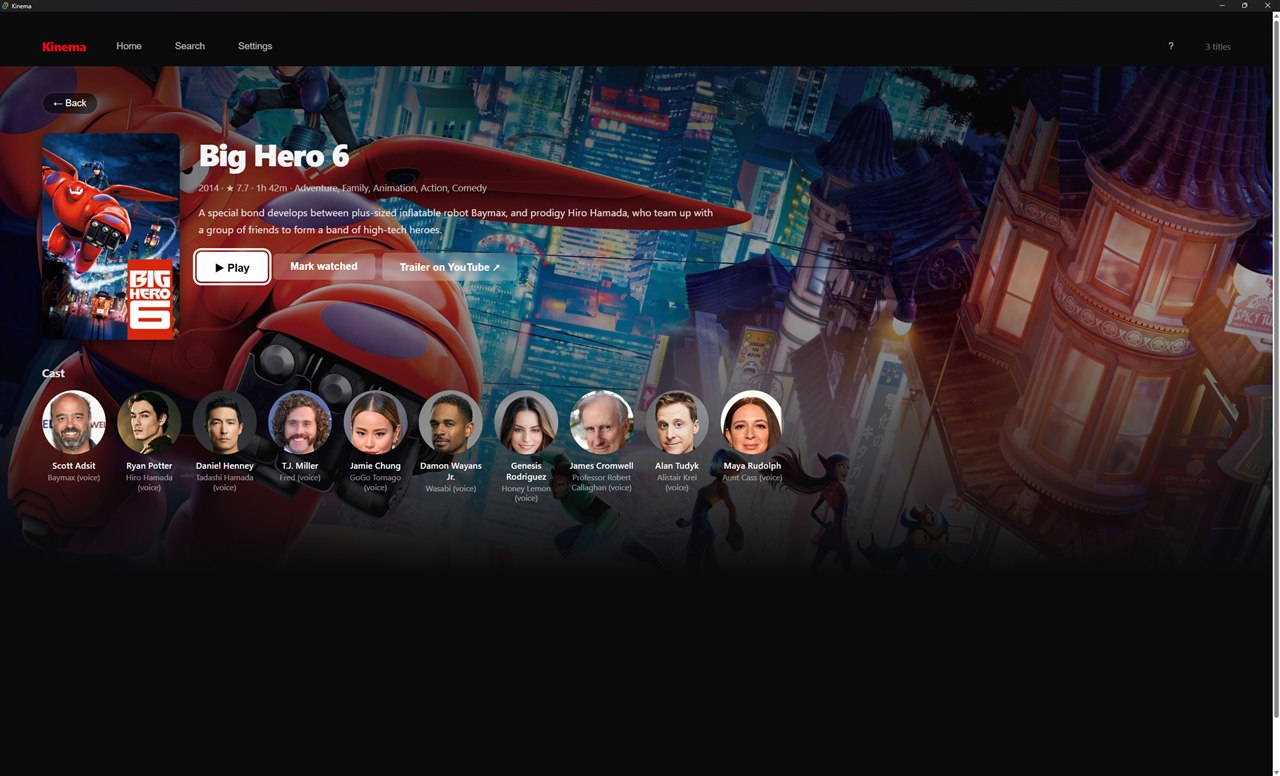
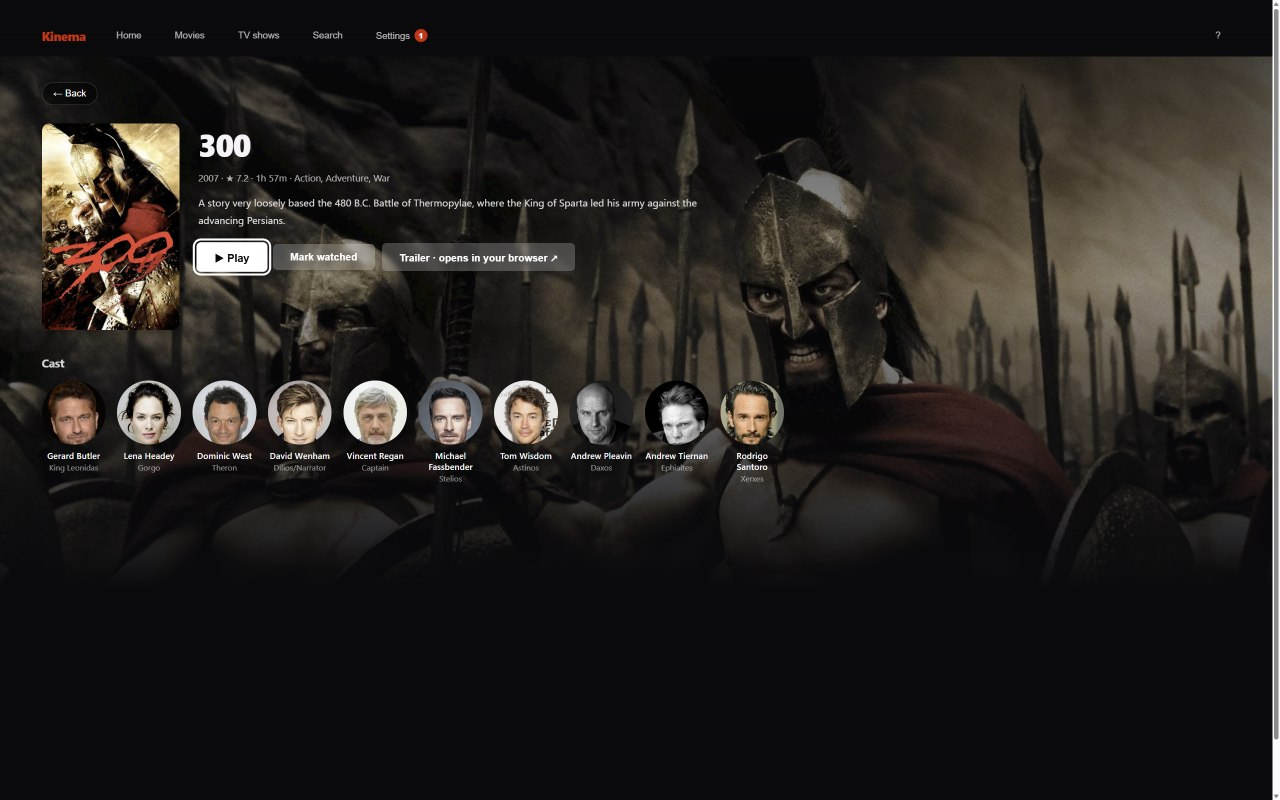
Ready the README for launch, with screenshots of the new app
The README taught the old remote ("press Up"), called the TMDB key optional
though movies do not appear without it, gave the SmartScreen box a
paragraph that read as defensive, and led with "not very tested". It now
describes the streaming-app remote, the language defaults and the equipment
notice; says plainly that movies need the key and what getting one involves;
explains the SmartScreen box step by step, with a checksum check that works
for any version; and ends with Known limitations. "Movies" throughout.

Home, the detail page and the player are fresh, taken by the self-test from
the real app on a copy of the library with its watch history deleted and the
equipment notice dismissed, so no viewing history or device names are shown.
selftest.ps1 gains -ShotDivisor for pictures larger than its timing quarters.
The changelog lists the whole pass under Unreleased.

diff --git a/README.md b/README.md
@@ -1,6 +1,6 @@
 # Kinema
 
-A media library for the films and TV shows already on your disk. It scans your
+A media library for the movies and TV shows already on your disk. It scans your
 folders, finds the artwork and descriptions, remembers where you stopped, and
 plays them — with no server, no account, and nothing running in the background.
 
@@ -11,34 +11,43 @@ Kinema is one program: close it and nothing is left running.
 
 **Windows 11 only.** See [Platform support](#platform-support).
 
-![Kinema's home screen: a full-width backdrop for the most recently added title, with rails of posters beneath it](docs/images/home.jpg)
+![Kinema's home screen: a full-width backdrop for a title from the library, with rails of posters beneath it](docs/images/home.jpg)
 
-![A film's detail page, showing the poster, description and a row of cast portraits](docs/images/detail.jpg)
+![A movie's detail page, showing the poster, description and a row of cast portraits](docs/images/detail.jpg)
 
 Detail pages carry the cast, the description and — for a series — every season
-and episode, with progress on the ones you have started.
+and episode, opening on the season you are in, with progress on the ones you
+have started. Posters everywhere show what you have watched.
 
-![The player's on-screen controls: seek bar, transport buttons, and an audio and subtitle panel](docs/images/player.png)
+![The player's controls: seek bar, the transport in the middle, audio and subtitles and volume at the right, and when it will end](docs/images/player.jpg)
 
-The controls appear on any key or mouse move and hide themselves again. **Press
-`↑`** to hand the arrow keys to them, which is how a remote reaches subtitles,
-audio tracks and fullscreen.
+A remote works the way it does on any streaming app: **OK** pauses, **←/→**
+seek (hold to go faster), and **↑/↓** bring up the controls — the seek bar,
+audio and subtitles, volume. Back steps back to wherever you came from.
 
 ## What it does
 
-- **Finds your films and shows** by walking folders you nominate. It never reads
+- **Finds your movies and shows** by walking folders you nominate. It never reads
   file contents to identify them, so scanning a NAS stays cheap.
 - **Fetches posters, backdrops, descriptions, cast and episode stills**, and
   caches them locally so browsing works with no connection.
 - **Refuses to guess.** A match it is not confident about goes to a review queue
-  with the reason, rather than silently attaching the wrong film to your file.
+  with the reason, rather than silently attaching the wrong movie to your file —
+  and Home tells you when something is waiting there.
 - **Plays through mpv** — the same engine as the standalone player — with
   hardware decoding, HDR tone mapping, PGS subtitles and 4K remuxes.
 - **Remembers where you were**, per file, and offers the next episode.
 - **Skips intros and credits**, from a community database, from chapter markers,
   or by fingerprinting a season's audio and finding what the episodes share.
-- **Works from a sofa.** Browsing, playing, subtitles and resume are all
-  reachable with a D-pad, and there is a larger layout for a television.
+- **Works from a sofa.** Browsing, searching (with an on-screen keyboard),
+  playing, subtitles and resume all work with a D-pad, and the TV layout fills
+  the screen with bigger text.
+- **Speaks your language.** Subtitles in your language when the audio is in
+  another, and none when it is not — set once, remembered per show when you
+  change it.
+- **Gets the most out of your equipment.** If your TV or receiver can do better
+  than Kinema is set to — Atmos and DTS:X untouched, 24p without judder, HDR —
+  Home says so, and one press turns it on.
 
 ![The playback statistics panel, listing resolution, codec, cadence, scaling and colour information](docs/images/stats.png)
 
@@ -56,34 +65,44 @@ Download the ZIP from [Releases](https://github.com/Basswaves/kinema/releases),
 extract it anywhere, and run `kinema.exe`. There is no installer — it is a
 folder, and deleting the folder uninstalls it.
 
-### Windows will warn you
+### Windows will ask once whether to run it
 
-The executable is not code-signed, so SmartScreen shows **"Windows protected
-your PC"** the first time. Click **More info**, then **Run anyway**.
+The first time you open `kinema.exe`, Windows shows a blue box: **"Windows
+protected your PC"**. Click **More info**, then **Run anyway**. Windows
+remembers, and does not ask again.
 
-This is expected for any unsigned program and is not a sign that something is
-wrong — but you should not have to take that on faith. Every release publishes a
-SHA-256 alongside the ZIP; compare it before you extract:
+It says that because Kinema is not *code-signed* — signed with a paid
+certificate that tells Windows who made the program. That is all it means. It
+is the same box for any small program from an independent developer, and it is
+not a warning that something was found.
+
+You should not have to take that on faith, so every release publishes a
+checksum beside the ZIP. To check the file you downloaded is the one that was
+published, run this in PowerShell in your Downloads folder and compare the
+result with the one on the release page:
 
 ```powershell
-Get-FileHash .\kinema-0.1.0-windows-x64.zip -Algorithm SHA256
+Get-FileHash .\kinema-*-windows-x64.zip -Algorithm SHA256
 ```
 
-Code signing costs a few hundred euros a year and does not make the program any
-safer, only quieter. It may happen later.
+Kinema asks GitHub for the latest version number when it starts, and says in
+Settings when a newer one is out. It never downloads or installs anything by
+itself — you download the new ZIP when you choose to.
 
 ## First run
 
 The app opens on a setup panel with two steps.
 
-1. **Add a folder.** Point it at where you keep your films, and another at your
+1. **Add a folder.** Point it at where you keep your movies, and another at your
    TV shows if they live somewhere else. Local drives and network shares both
    work. Nothing is moved, renamed or written to — the files are only read.
 
-2. **Paste a TMDB key.** Optional but worth two minutes. TV shows already work
-   without one, but films need it for posters, descriptions and artwork. It is
-   free: the panel has a button that opens
-   [the page you get one from](https://www.themoviedb.org/settings/api).
+2. **Paste a TMDB key.** TV shows work without one, but **movies need it** —
+   without a key they cannot be identified and do not appear. It is free, and
+   the panel has a button that opens
+   [the page you get one from](https://www.themoviedb.org/settings/api): you
+   create a TMDB account and fill in a short form describing your use (personal,
+   non-commercial).
 
 Then press **Scan my library**. The first scan takes a few minutes on a large
 library; you can watch it fill in. After that it scans once at every start and
@@ -182,16 +201,17 @@ visible error at all — only a log line.
 
 `F12` opens WebView2 DevTools in the app window.
 
-## A word on how tested this is
+## Known limitations
 
-Honestly: not very, outside one machine. Kinema was built for its author's
-setup, and a good deal of it is calibrated against one display and one
-television series — HDR passthrough, TV overscan, the intro-detection thresholds,
-and behaviour on a library of several hundred films are all listed as unverified
-in [docs/ROADMAP.md](docs/ROADMAP.md).
-
-It is published at `0.1.0` for exactly that reason. If it does something strange
-on your hardware, that is useful information rather than a nuisance.
+- **Windows 11 only** — see [Platform support](#platform-support).
+- **Movies need a TMDB key** for now. A key built into Kinema is the first item
+  on the [roadmap](docs/ROADMAP.md).
+- **Tested on a small number of setups.** HDR passthrough, bitstreaming to a
+  receiver and display switching have been confirmed on a 4K HDR TV with an AV
+  receiver; TV overscan, intro detection on many different shows, and libraries
+  of several hundred movies have had less exposure. The roadmap lists what is
+  unverified. If something behaves strangely on your equipment, the log files
+  (below) are the most useful thing you can send.
 
 ## Documentation
 

diff --git a/CHANGELOG.md b/CHANGELOG.md
@@ -7,6 +7,58 @@ makes no stability promises.
 
 ## [Unreleased]
 
+A pass over everything a new user meets, after an outside-eye review.
+
+### Changed
+
+- **The remote in the player works like a streaming app.** OK pauses and
+  resumes; Left/Right seek, faster the longer they are held; Up or Down bring
+  up the controls, where the seek bar can now be reached. The controls step
+  aside by themselves.
+- **A redesigned player bar**, with icons, the episode's name, "Ends at", and
+  a **volume control** (M to mute, − and + to change it; it says so when the
+  receiver has the volume).
+- **TV mode fills the screen** — library and player — so display switching
+  works from the sofa without finding a Fullscreen button.
+- **Back goes back** to where you came from — search results, a grid, the page
+  a film was started from — with the thing you picked still highlighted.
+- **Settings has sections** (Library, Playback, Picture & sound, Intro &
+  credits, Advanced), every option shows its choices side by side, and each
+  has one line of explanation with the rest behind "More about this".
+- **Home changes daily** and repeats itself less; genre rows wait until the
+  library is big enough for them.
+- **Track names are readable**: "English · 7.1 · Dolby TrueHD Atmos",
+  "Norwegian · Forced", "English · SDH".
+- **A show's page opens on the season you are in**, Specials last, with a
+  quiet watched tick per episode and **Mark season watched**.
+- **Movies**, not films, throughout; counts read "1 file", "3 files"; error
+  messages say what happened in words.
+
+### Added
+
+- **Watched ticks and progress bars on posters**, and how many episodes are
+  left of a show you have started.
+- **Default audio and subtitle languages** in Settings → Playback. Subtitles
+  default to Windows' language when the audio is in another one.
+- **Start over** on the "Resumed from" notice, and **Resume / Play from start**
+  on a title's page.
+- **Search from a remote**, with an on-screen keyboard in the TV layout, and
+  search by actor, genre or year as well as title.
+- **Sorting and "Unwatched only"** in every grid, and **Movies** and **TV shows**
+  in the top bar.
+- **Home says when videos need identifying**, with a button straight to the
+  review queue.
+- **Home says when your equipment can do better** than it is set to — a
+  receiver that takes Atmos and DTS:X, a TV with a 24p mode, HDR switched off —
+  with one press to turn it on.
+- **A notice when a newer Kinema is out**, from one request to GitHub per launch
+  (Settings → Advanced turns it off). Nothing is downloaded.
+
+### Removed
+
+- The question about sending sound to the receiver that interrupted the first
+  film. The notice on Home replaces it.
+
 ## [0.3.1] — 2026-09-25
 
 Small follow-ups to 0.3.0's native output.

diff --git a/docs/images/README.md b/docs/images/README.md
@@ -4,10 +4,15 @@ Referenced from the top-level [README](../../README.md).
 
 | File | What it shows |
 |---|---|
-| `home.png` | The home screen — hero backdrop and the rails beneath it |
-| `detail.png` | A film's detail page, with the cast row |
-| `player.png` | The player controls over a playing file |
+| `home.jpg` | The home screen — hero backdrop, a notice, and the rails beneath it |
+| `detail.jpg` | A movie's detail page, with the cast row |
+| `player.jpg` | The player controls over a paused file |
 | `stats.png` | The playback statistics panel (`i` while watching) |
+
+`home`, `detail` and `player` were taken by `scripts/selftest.ps1 -ShotDivisor 2`
+on a copy of a real library with its watch history deleted and the equipment
+notice dismissed first — so no viewing history and no device names are in the
+pictures. Settings is left out on purpose: it shows the library's folder paths.
 
 Ordinary Windows capture — `Win`+`Shift`+`S` or PrintScreen — picks these up
 fine, video included. If the video area comes out black, check where you are in

diff --git a/docs/ROADMAP.md b/docs/ROADMAP.md
@@ -289,7 +289,7 @@ linearly at the end. Each step is verified before the next.
 15. **Docs.** A built-in TMDB key goes to the top of "Worth doing"; the first-run
     picture-and-sound setup stays there; decisions to PLAN. **Done.**
 16. **README for launch.** Stays unsigned, with a clearer SmartScreen section;
-    "Known limitations" in place of the testing paragraph; fresh screenshots.
+    "Known limitations" in place of the testing paragraph; fresh screenshots. **Done.**
 
 ## Worth doing, in rough order of payoff
 
